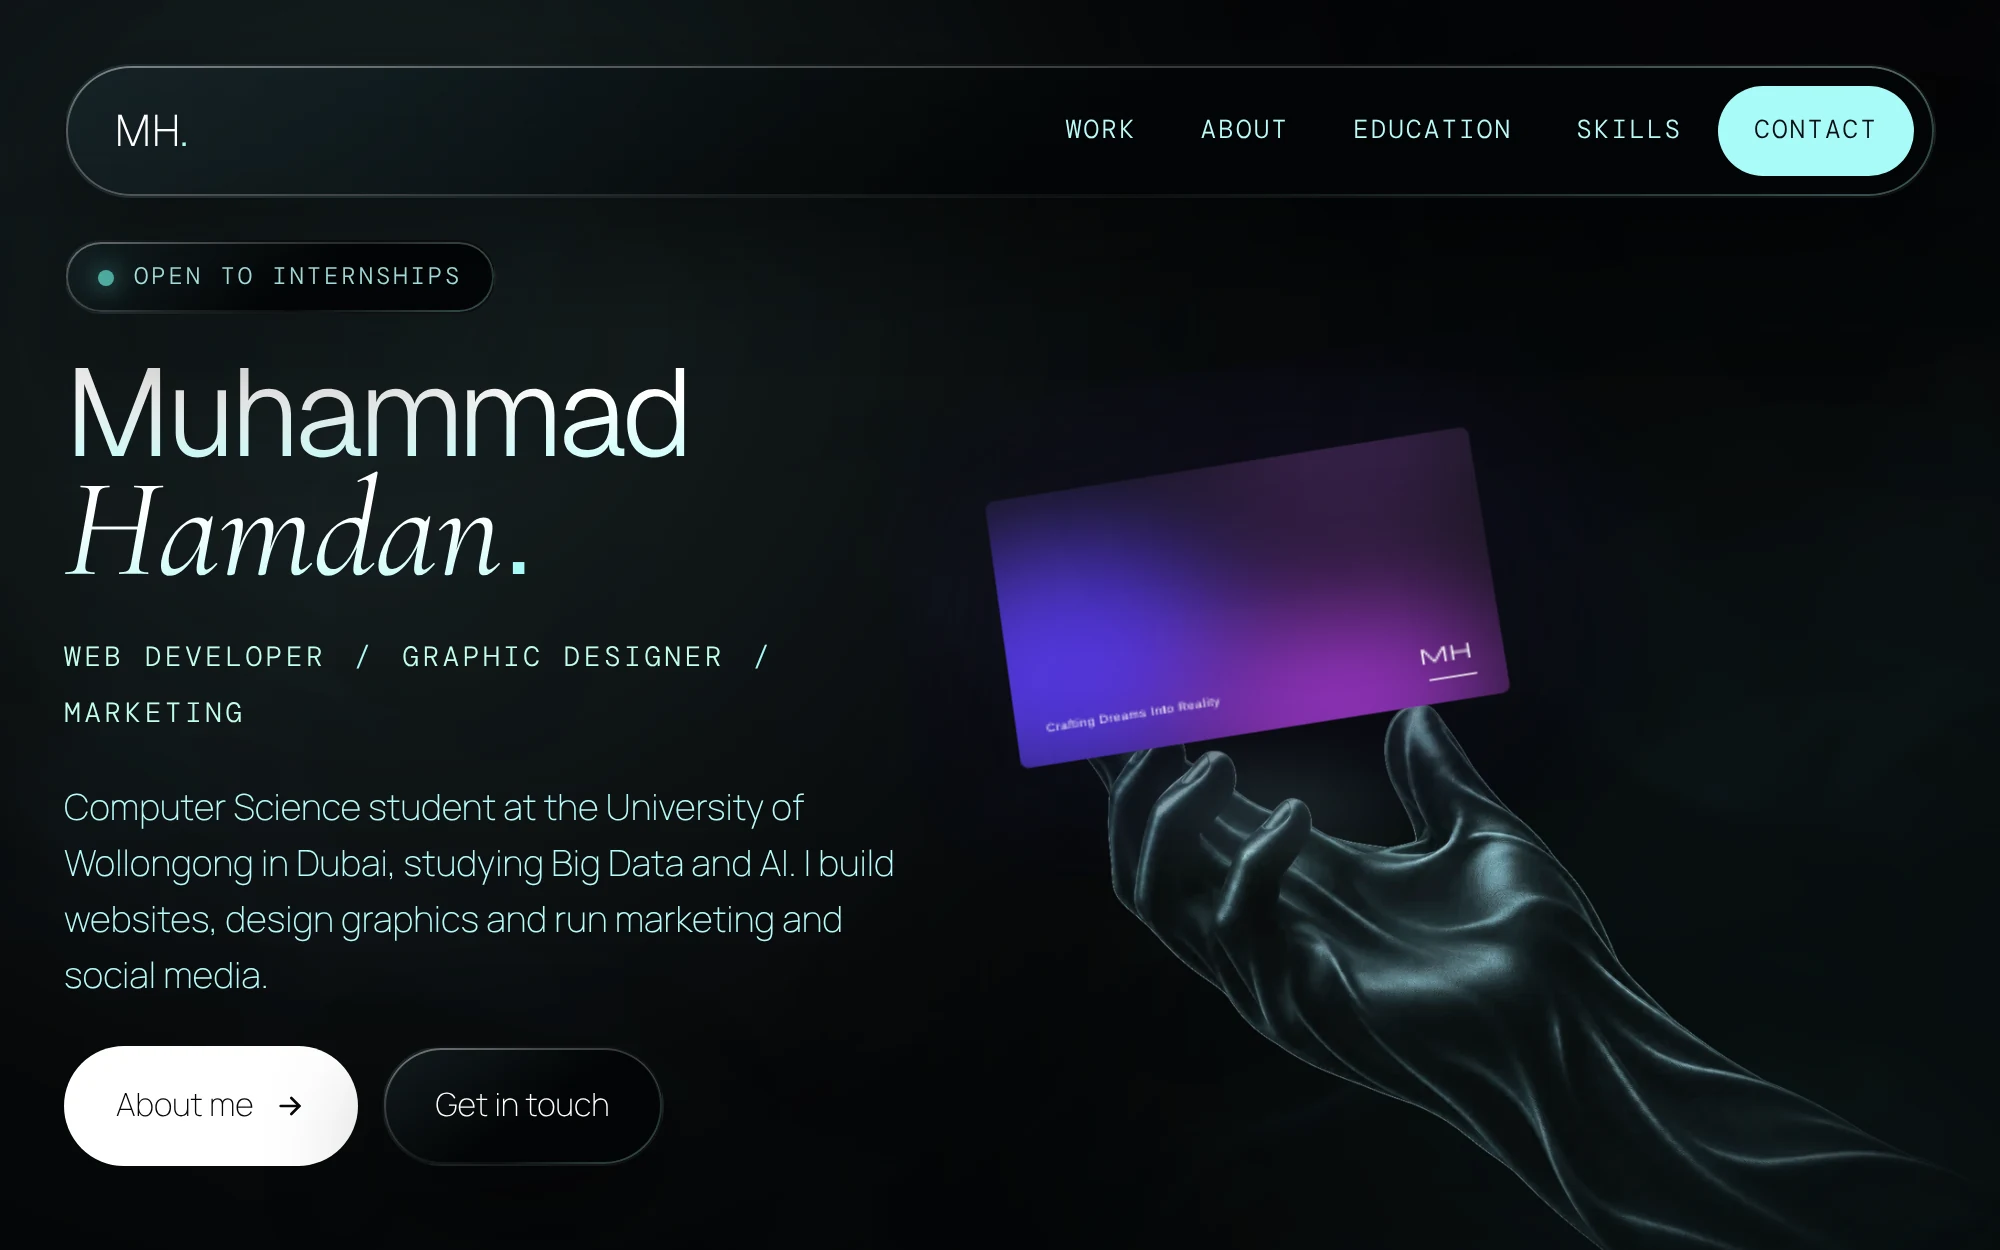
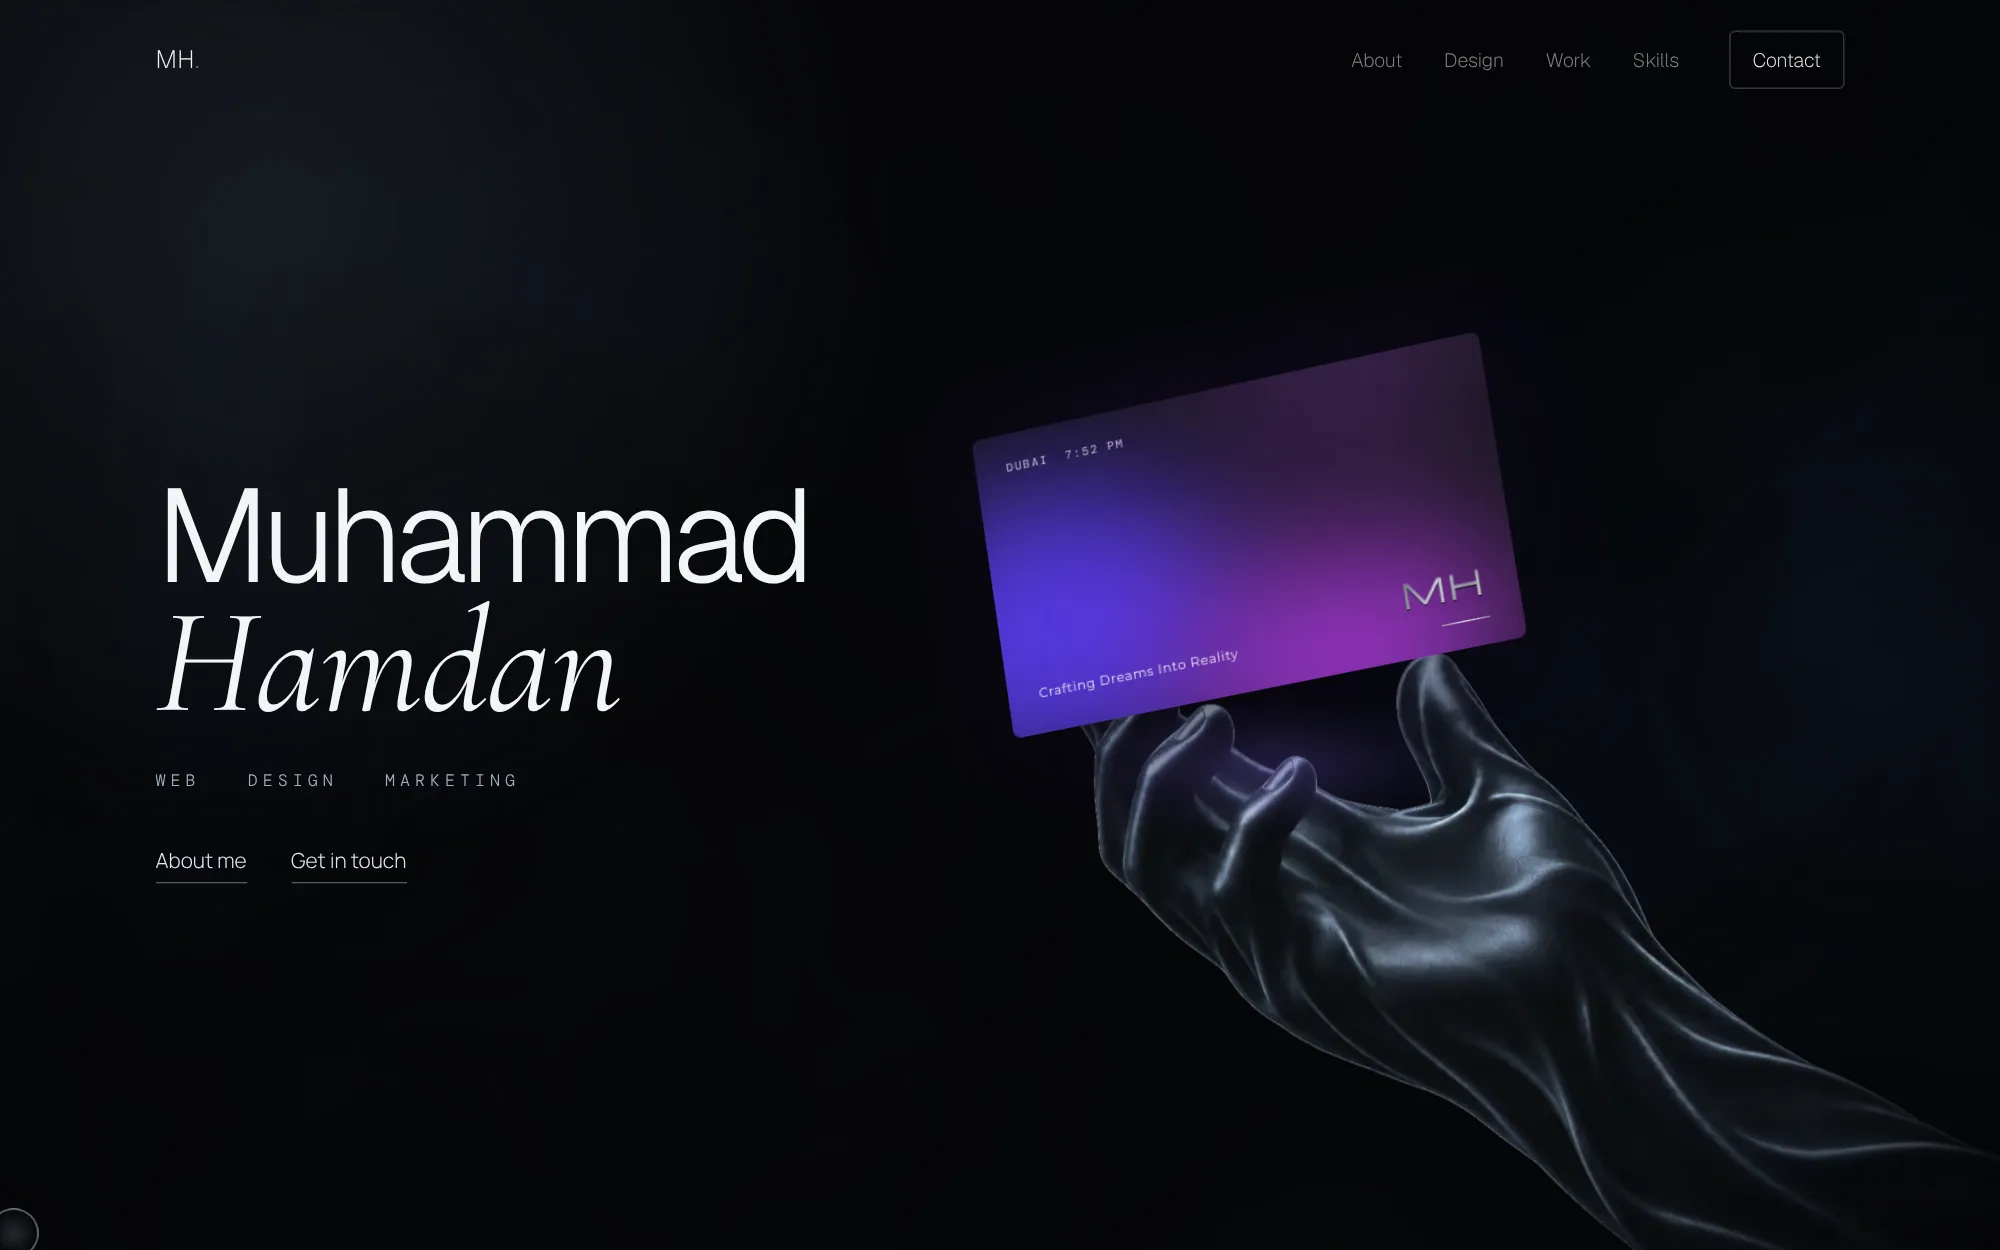
Brand identity tiles on the Websites card, landscape covers fit whole in the gallery
Logo and colour palette tiles replace the two empty slots, a fresh screenshot of the current hero,
and the Sixty Newton cover now shows in full in its tile instead of being cropped.

Claude-Session: https://claude.ai/code/session_01Q7EYg8WhbdtDqsbxYgbK5J

diff --git a/src/styles/globals.css b/src/styles/globals.css
@@ -464,3 +464,63 @@ a:focus-visible{outline:2px solid var(--accent);outline-offset:3px}
 .pj-cats:hover .bk{transform:rotate(var(--r)) translateZ(10px)}
 .pj-cats:hover .bk-f{transform:rotate(calc(var(--r) - 2deg)) translateZ(26px)}
 @media (max-width:900px){.pj-cat{padding:30px 12px 10px;font-size:13px}.pj-cat em{font-size:9.5px}.pj-plane{width:112%;height:160%}}
+
+/* Brand identity (portfolio website): logo, palette, type, elements. */
+.bb-mark{font-family:var(--f-sans);font-weight:200;font-size:clamp(56px,6vw,96px);line-height:1;letter-spacing:-.06em;color:#F2F5F8}
+.bb-mark i{font-style:normal;color:#8CBEF2}
+.bb-mark-light{color:#050708}
+.bb-mark-light i{color:#3D7BC4}
+.bb-word{font-family:var(--f-sans);font-weight:300;font-size:14px;letter-spacing:-.01em;color:#9FB0C0}
+.bb-word em{font-family:var(--f-serif);font-style:italic;font-size:1.18em;letter-spacing:0;color:inherit}
+.bb-tile{position:absolute;inset:0}
+.bb-tile-logo{display:flex;flex-direction:column;align-items:center;justify-content:center;gap:12px;padding-bottom:22%;background:radial-gradient(70% 70% at 50% 40%,#121A23,#050708 75%)}
+.bb-tile-logo .bb-mark{font-size:clamp(40px,4.4vw,72px)}
+.bb-tile-logo .bb-word{font-size:12px}
+.bb-tile-pal{display:flex}
+.bb-tile-pal span{flex:1;position:relative;transition:flex .6s cubic-bezier(.2,.7,.2,1)}
+.bb-tile-pal b{position:absolute;left:50%;top:12px;transform:translateX(-50%) rotate(90deg);transform-origin:left top;margin-left:6px;white-space:nowrap;font:400 9.5px var(--f-mono);letter-spacing:.12em;color:rgba(5,7,8,.62)}
+.bb-tile-pal span.is-dark b{color:rgba(242,245,248,.55)}
+.pj-cats:hover .bb-tile-pal span:hover{flex:1.8}
+.bb{margin-top:28px;padding-top:26px;border-top:1px solid rgba(255,255,255,.08)}
+.bb-head{display:flex;flex-wrap:wrap;align-items:baseline;justify-content:space-between;gap:8px 30px;margin-bottom:18px}
+.bb-head h4{margin:0;font-family:var(--f-mono);font-size:12px;letter-spacing:.18em;text-transform:uppercase;color:#8CBEF2}
+.bb-head p{margin:0;max-width:520px;font-size:14px;line-height:1.6;color:#9FB0C0}
+.bb-grid{display:grid;grid-template-columns:repeat(4,minmax(0,1fr));gap:10px}
+.bb-cell{position:relative;border-radius:10px;border:1px solid rgba(255,255,255,.07);background:#0B0D0F;padding:42px 20px 20px;min-height:200px;overflow:hidden}
+.bb-label{position:absolute;left:18px;top:16px;font-family:var(--f-mono);font-size:10.5px;letter-spacing:.16em;text-transform:uppercase;color:#7C8C9C}
+.bb-logo{grid-column:span 2;display:flex;flex-direction:column;align-items:center;justify-content:center;gap:14px;background:radial-gradient(70% 80% at 50% 40%,#121A23,#050708 75%)}
+.bb-logo-light{background:#F2F5F8;border-color:transparent}
+.bb-logo-light .bb-label{color:#6B7783}
+.bb-logo-light .bb-word{color:#3B4652}
+.bb-pal{grid-column:span 4}
+.bb-swatches{display:grid;grid-template-columns:repeat(6,minmax(0,1fr));gap:10px}
+.bb-sw{display:flex;flex-direction:column;gap:4px}
+.bb-chip{display:block;aspect-ratio:1/1.1;border-radius:8px;border:1px solid rgba(255,255,255,.08);margin-bottom:8px}
+.bb-sw b{font-family:var(--f-sans);font-weight:300;font-size:15px;color:#F2F5F8}
+.bb-sw code{font-family:var(--f-mono);font-size:11.5px;letter-spacing:.06em;color:#8CBEF2}
+.bb-sw small,.bb-font small{font-size:12px;line-height:1.4;color:#7C8C9C}
+.bb-type{grid-column:span 3}
+.bb-fonts{display:grid;grid-template-columns:repeat(4,minmax(0,1fr));gap:14px}
+.bb-font{display:flex;flex-direction:column;gap:4px}
+.bb-aa{font-size:clamp(46px,4.6vw,68px);line-height:1;color:#F2F5F8;margin-bottom:6px}
+.bb-geist{font-family:var(--f-sans);font-weight:200;letter-spacing:-.05em}
+.bb-serif{font-family:var(--f-serif);font-style:italic}
+.bb-body{font-family:var(--f-body);font-weight:300}
+.bb-mono{font-family:var(--f-mono);font-weight:300;letter-spacing:-.02em}
+.bb-font b{font-family:var(--f-sans);font-weight:300;font-size:14px;color:#F2F5F8}
+.bb-ui{grid-column:span 1}
+.bb-els{display:flex;flex-direction:column;align-items:flex-start;gap:16px}
+.bb-el-tag{font-family:var(--f-mono);font-size:10.5px;letter-spacing:.24em;text-transform:uppercase;color:#9FB0C0}
+.bb-el-link{font-size:14px;color:#DDE6EE;padding-bottom:3px;border-bottom:1px solid rgba(221,230,238,.35)}
+.bb-el-line{display:block;width:100%;height:2px;border-radius:2px;background:linear-gradient(90deg,rgba(84,112,232,0),#7E98FF 70%,#fff);box-shadow:0 0 6px 1px rgba(112,140,255,.55)}
+.bb-el-dot{display:inline-flex;align-items:center;gap:8px;font-family:var(--f-mono);font-size:11px;letter-spacing:.14em;text-transform:uppercase;color:#8CBEF2}
+.bb-el-dot i{width:6px;height:6px;border-radius:50%;background:#8CBEF2;box-shadow:0 0 10px #8CBEF2}
+@media (max-width:900px){
+  .bb-grid{grid-template-columns:repeat(2,minmax(0,1fr))}
+  .bb-logo{grid-column:span 1;min-height:170px}
+  .bb-pal,.bb-type,.bb-ui{grid-column:span 2}
+  .bb-swatches{grid-template-columns:repeat(3,minmax(0,1fr))}
+  .bb-fonts{grid-template-columns:repeat(2,minmax(0,1fr));row-gap:22px}
+  .bb-mark{font-size:44px}
+  .bb-tile-pal b{font-size:8px}
+}

diff --git a/src/components/work/Websites.tsx b/src/components/work/Websites.tsx
@@ -1,6 +1,7 @@
 import Link from 'next/link';
 import Image from 'next/image';
 import siteShot from '@/assets/site-shot.webp';
+import BrandBoard from './BrandBoard';
 
 export default function Websites() {
   return (
@@ -11,21 +12,22 @@ export default function Websites() {
 <div className="cs-top">
 <span className="cs-num">01</span>
 <div className="cs-name"><span className="cs-kicker">Personal · 2026</span><h3 className="cs-title">Portfolio website</h3></div>
-<div className="cs-tags"><span className="chip">Web design</span><span className="chip">Front end</span></div>
+<div className="cs-tags"><span className="chip">Brand identity</span><span className="chip">Web design</span><span className="chip">Front end</span></div>
 </div>
 <div className="cs-body">
 <div className="cs-visual"><div className="browser">
-<div className="browser-bar"><i></i><i></i><i></i><span>hamdanxo.github.io/Portfolio</span></div>
+<div className="browser-bar"><i></i><i></i><i></i><span>hamdan-portfolio-three.vercel.app</span></div>
 <Image src={siteShot} alt="Screenshot of the portfolio home page with the spinning business card held by a hand" sizes="(max-width: 900px) 92vw, 58vw" />
 </div></div>
 <div className="cs-text">
-<div className="cs-block"><h4>Overview</h4><p>My personal portfolio, designed and coded from scratch. A dark glass look with a 3D business card that a hand presents and spins as you scroll.</p></div>
-<div className="cs-block"><h4>The goal</h4><p>A portfolio that feels like a premium brand, not a template, and still runs smooth on a phone.</p></div>
-<div className="cs-block"><h4>What&apos;s inside</h4><ol className="cs-steps"><li><span>01</span><p>A scroll driven 3D business card held by a hand</p></li><li><span>02</span><p>Smooth momentum scrolling with soft reveals</p></li><li><span>03</span><p>Stacking project cards and a mouse reactive contact box</p></li><li><span>04</span><p>Tuned to stay fast on phones</p></li></ol></div>
-<div className="cs-block"><h4>Built with</h4><div className="cs-chips"><span className="chip">HTML</span><span className="chip">CSS</span><span className="chip">JavaScript</span><span className="chip">Lenis</span><span className="chip">GitHub Pages</span></div></div>
-<div className="cs-foot"><span className="cs-status"><i></i>Live</span><div className="cs-links"><Link href="/">Visit site <svg viewBox="0 0 24 24" aria-hidden="true" fill="none" stroke="currentColor" strokeWidth="1.8" strokeLinecap="round" strokeLinejoin="round"><path d="M7 17 17 7" /><path d="M8 7h9v9" /></svg></Link><a href="https://github.com/hamdanxo/Portfolio" target="_blank" rel="noopener">View code <svg viewBox="0 0 24 24" aria-hidden="true" fill="none" stroke="currentColor" strokeWidth="1.8" strokeLinecap="round" strokeLinejoin="round"><path d="M7 17 17 7" /><path d="M8 7h9v9" /></svg></a></div></div>
+<div className="cs-block"><h4>Overview</h4><p>My personal portfolio, designed and coded from scratch, with its own brand: logo, colours and type. A dark, calm look with a 3D business card that a hand presents and spins as you scroll.</p></div>
+<div className="cs-block"><h4>The goal</h4><p>Show my design and build work clearly, in a site that is my own and not a template, and keep it smooth on a phone.</p></div>
+<div className="cs-block"><h4>What&apos;s inside</h4><ol className="cs-steps"><li><span>01</span><p>A scroll driven 3D business card held by a hand</p></li><li><span>02</span><p>A sideways timeline that breaks into dust at the end</p></li><li><span>03</span><p>A moving WebGL wall of my design work</p></li><li><span>04</span><p>Scroll effects run on the graphics chip so phones stay smooth</p></li></ol></div>
+<div className="cs-block"><h4>Built with</h4><div className="cs-chips"><span className="chip">Next.js</span><span className="chip">TypeScript</span><span className="chip">Three.js</span><span className="chip">Lenis</span><span className="chip">Vercel</span></div></div>
+<div className="cs-foot"><span className="cs-status"><i></i>Live</span><div className="cs-links"><Link href="/">Visit site <svg viewBox="0 0 24 24" aria-hidden="true" fill="none" stroke="currentColor" strokeWidth="1.8" strokeLinecap="round" strokeLinejoin="round"><path d="M7 17 17 7" /><path d="M8 7h9v9" /></svg></Link><a href="https://github.com/hamdanxo/Hamdan-Portfolio" target="_blank" rel="noopener">View code <svg viewBox="0 0 24 24" aria-hidden="true" fill="none" stroke="currentColor" strokeWidth="1.8" strokeLinecap="round" strokeLinejoin="round"><path d="M7 17 17 7" /><path d="M8 7h9v9" /></svg></a></div></div>
 </div>
 </div>
+<BrandBoard />
 </article></div>
 </section>
     </>

diff --git a/src/components/work/BrandBoard.tsx b/src/components/work/BrandBoard.tsx
@@ -1,0 +1,101 @@
+/** The portfolio's brand identity: logo, colours, type and small UI pieces, shown like a studio brand sheet. */
+
+export const PALETTE = [
+  { name: 'Ink', hex: '#050708', use: 'Background', dark: true },
+  { name: 'Graphite', hex: '#0B0D0F', use: 'Panels and cards', dark: true },
+  { name: 'Ice', hex: '#8CBEF2', use: 'Accent and links' },
+  { name: 'Violet', hex: '#5B3DF5', use: 'Business card', dark: true },
+  { name: 'Mist', hex: '#9FB0C0', use: 'Body text' },
+  { name: 'Frost', hex: '#F2F5F8', use: 'Headings' },
+];
+
+const TYPE = [
+  { name: 'Geist', use: 'Headings and the name', cls: 'bb-geist', sample: 'Aa' },
+  { name: 'Cormorant Garamond', use: 'The signature italic', cls: 'bb-serif', sample: 'Aa' },
+  { name: 'Manrope', use: 'Body text', cls: 'bb-body', sample: 'Aa' },
+  { name: 'DM Mono', use: 'Labels and small caps', cls: 'bb-mono', sample: 'Aa' },
+];
+
+/** The logo: an MH monogram with an ice blue full stop. */
+export function Mark({ light = false }: { light?: boolean }) {
+  return <span className={`bb-mark${light ? ' bb-mark-light' : ''}`} aria-label="MH logo">MH<i>.</i></span>;
+}
+
+/** Small tile for the home page card: the logo on Ink. */
+export function LogoTile() {
+  return (
+    <div className="bb-tile bb-tile-logo">
+      <Mark />
+      <span className="bb-word">Muhammad <em>Hamdan</em></span>
+    </div>
+  );
+}
+
+/** Small tile for the home page card: the palette as stripes. */
+export function PaletteTile() {
+  return (
+    <div className="bb-tile bb-tile-pal">
+      {PALETTE.map((c) => (
+        <span key={c.hex} style={{ background: c.hex }} className={c.dark ? 'is-dark' : ''}><b>{c.hex}</b></span>
+      ))}
+    </div>
+  );
+}
+
+/** The full brand sheet for the Work page. */
+export default function BrandBoard() {
+  return (
+    <div className="bb" aria-label="Brand identity">
+      <div className="bb-head">
+        <h4>Brand identity</h4>
+        <p>The logo, colours and type I made for my own brand, used across this site and my business card.</p>
+      </div>
+      <div className="bb-grid">
+        <div className="bb-cell bb-logo">
+          <span className="bb-label">Logo</span>
+          <Mark />
+          <span className="bb-word">Muhammad <em>Hamdan</em></span>
+        </div>
+        <div className="bb-cell bb-logo bb-logo-light">
+          <span className="bb-label">On light</span>
+          <Mark light />
+          <span className="bb-word">Muhammad <em>Hamdan</em></span>
+        </div>
+        <div className="bb-cell bb-pal">
+          <span className="bb-label">Colour palette</span>
+          <div className="bb-swatches">
+            {PALETTE.map((c) => (
+              <div className="bb-sw" key={c.hex}>
+                <span className="bb-chip" style={{ background: c.hex }} />
+                <b>{c.name}</b>
+                <code>{c.hex}</code>
+                <small>{c.use}</small>
+              </div>
+            ))}
+          </div>
+        </div>
+        <div className="bb-cell bb-type">
+          <span className="bb-label">Typography</span>
+          <div className="bb-fonts">
+            {TYPE.map((t) => (
+              <div className="bb-font" key={t.name}>
+                <span className={`bb-aa ${t.cls}`}>{t.sample}</span>
+                <b>{t.name}</b>
+                <small>{t.use}</small>
+              </div>
+            ))}
+          </div>
+        </div>
+        <div className="bb-cell bb-ui">
+          <span className="bb-label">Elements</span>
+          <div className="bb-els">
+            <span className="bb-el-tag">Web developer</span>
+            <span className="bb-el-link">Get in touch</span>
+            <span className="bb-el-line" />
+            <span className="bb-el-dot"><i />Live</span>
+          </div>
+        </div>
+      </div>
+    </div>
+  );
+}

diff --git a/src/components/home/Projects.tsx b/src/components/home/Projects.tsx
@@ -1,6 +1,7 @@
 import Image from 'next/image';
 import siteShot from '@/assets/site-shot.webp';
 import { categories, work, type Category } from '@/data/designs';
+import { LogoTile, PaletteTile } from '@/components/work/BrandBoard';
 
 const inCat = (c: Category) => work.filter((d) => d.category === c);
 const countLabel = (c: Category) => {
@@ -55,10 +56,10 @@ export default function Projects() {
 <div className="pj-id"><span className="pj-num">02</span><div className="pj-meta"><span className="pj-client">01 project</span><h3 className="pj-title">Websites</h3></div></div>
 <a className="pj-link" href="/work#websites">View projects <svg viewBox="0 0 24 24" aria-hidden="true" fill="none" stroke="currentColor" strokeWidth="1.8" strokeLinecap="round" strokeLinejoin="round"><path d="M7 17 17 7" /><path d="M8 7h9v9" /></svg></a>
 </div>
-<a className="pj-grid" data-cursor="view" href="/work#websites" aria-label="Open Websites projects">
+<a className="pj-grid pj-cats" data-cursor="view" href="/work#websites" aria-label="Open Websites projects">
 <div className="pj-img pj-big"><Image className="s-96d9c8" src={siteShot} alt="Portfolio website home page" sizes="(max-width: 900px) 92vw, 62vw" /></div>
-<div className="pj-img pj-soon">Next site</div>
-<div className="pj-img pj-soon">Next site</div>
+<div className="pj-img pj-photo"><LogoTile /><span className="pj-cat"><em>Brand identity</em>Logo</span></div>
+<div className="pj-img pj-photo"><PaletteTile /><span className="pj-cat"><em>Brand identity</em>Colour palette</span></div>
 </a>
 <span className="pj-dim" aria-hidden="true" />
 </article>

diff --git a/src/components/work/gallery/atlas.ts b/src/components/work/gallery/atlas.ts
@@ -153,7 +153,25 @@ export async function buildAtlas(items: Design[], images: (HTMLImageElement | nu
     roundRect(ctx, ax, top, aw, ah, 3);
     ctx.clip();
     const img = images[i];
-    if (img) {
+    if (img && img.naturalWidth > img.naturalHeight * 1.1) {
+      // A landscape book in a tall tile: show the whole cover, lying in the middle with a soft shadow.
+      const bg = ctx.createRadialGradient(ax + aw / 2, top + ah * 0.45, 0, ax + aw / 2, top + ah * 0.45, ah * 0.8);
+      bg.addColorStop(0, '#18212B');
+      bg.addColorStop(1, '#07090C');
+      ctx.fillStyle = bg;
+      ctx.fillRect(ax, top, aw, ah);
+      const s = (aw * 0.88) / img.naturalWidth;
+      const iw = img.naturalWidth * s, ih = img.naturalHeight * s;
+      const x = ax + (aw - iw) / 2, y = top + (ah - ih) / 2;
+      ctx.save();
+      ctx.shadowColor = 'rgba(0,0,0,0.6)';
+      ctx.shadowBlur = 22;
+      ctx.shadowOffsetY = 12;
+      ctx.fillStyle = '#B9BFC6';
+      ctx.fillRect(x + 2, y + 2, iw, ih); // page edges under the cover
+      ctx.restore();
+      ctx.drawImage(img, x, y, iw, ih);
+    } else if (img) {
       const s = Math.max(aw / img.naturalWidth, ah / img.naturalHeight);
       const iw = img.naturalWidth * s, ih = img.naturalHeight * s;
       ctx.drawImage(img, ax + (aw - iw) / 2, top + (ah - ih) / 2, iw, ih);

diff --git a/src/components/work/DesignGallery.tsx b/src/components/work/DesignGallery.tsx
@@ -21,7 +21,7 @@ function Tile({ d, i, w, h, refCb }: { d: Design; i: number; w: number; h: numbe
   return (
     <div className={d.img ? 'dg-tile dg-real' : 'dg-tile'} data-i={i} ref={refCb} style={{ width: w, height: h }}>
       <div className="r"><span>{d.client}</span><span>{d.title}</span></div>
-      <div className={d.img ? 'dg-art' : `dg-art a${(i % 8) + 1}`}>
+      <div className={d.img ? (d.book && d.book.width > d.book.height ? 'dg-art dg-wide' : 'dg-art') : `dg-art a${(i % 8) + 1}`}>
         {d.img ? <Image src={d.img} alt={d.title} fill sizes="300px" draggable={false} /> : <em>{d.title}</em>}
       </div>
       <div className="r">

diff --git a/src/styles/work.css b/src/styles/work.css
@@ -235,3 +235,6 @@ button.dg-row:last-child{border-bottom:0}
 
 /* Phones: up and down swipes on the design wall scroll the page; sideways swipes move the wall. */
 @media (pointer:coarse){.dg-stage{touch-action:pan-y}}
+/* Landscape books: show the whole cover lying in the middle of the tall tile. */
+.dg-art.dg-wide{background:radial-gradient(90% 70% at 50% 45%,#18212B,#07090C)}
+.dg-art.dg-wide img{object-fit:contain!important;padding:0 6%;filter:drop-shadow(2px 2px 0 #B9BFC6) drop-shadow(0 12px 18px rgba(0,0,0,.6))}
